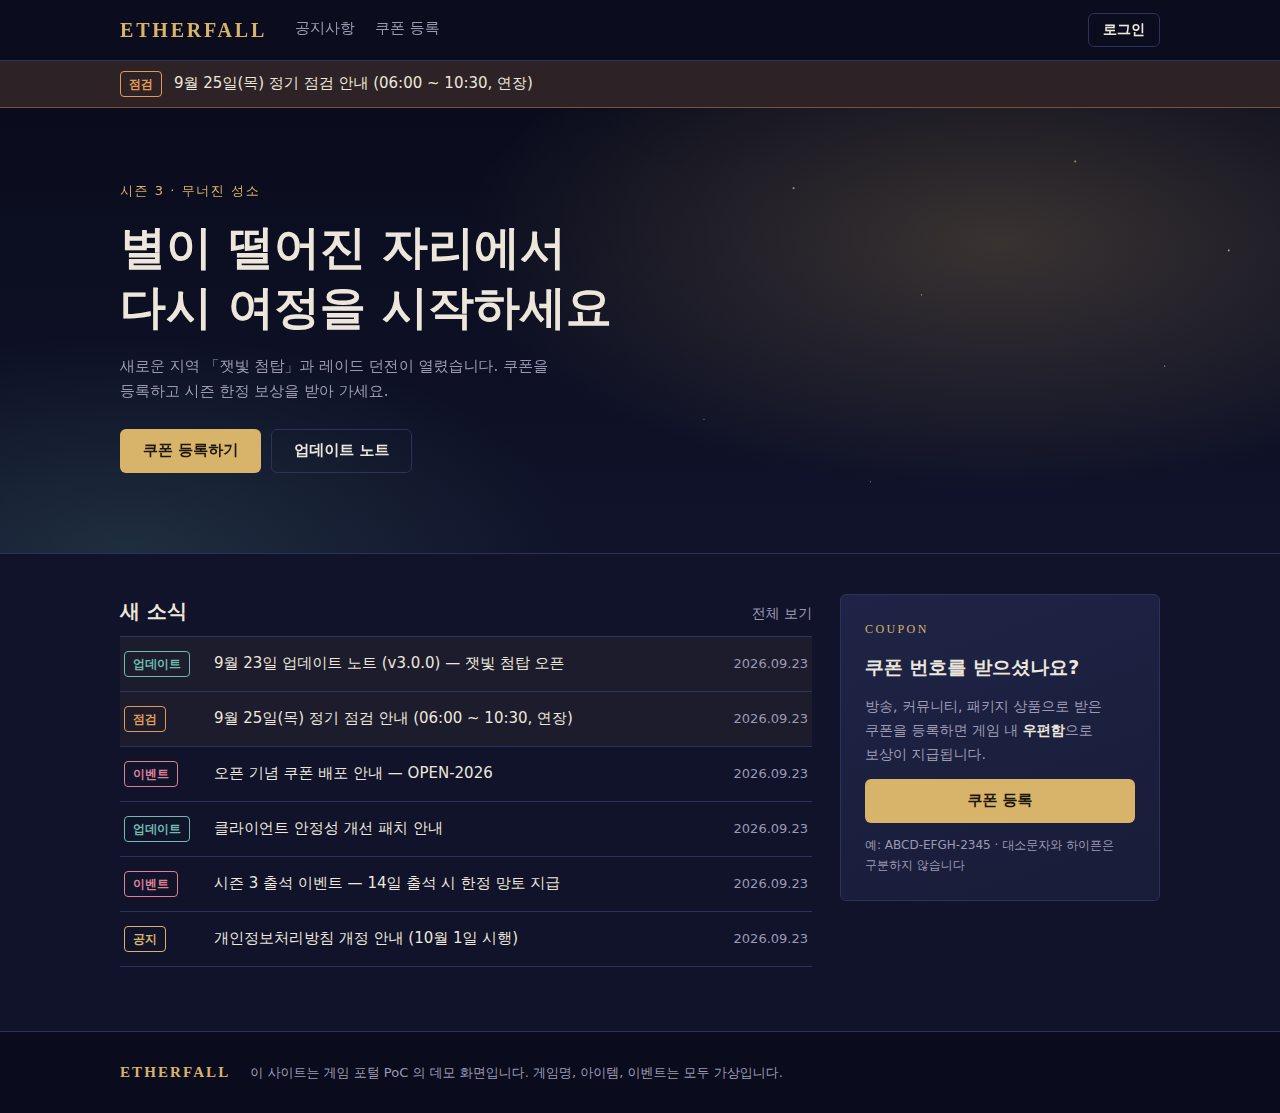
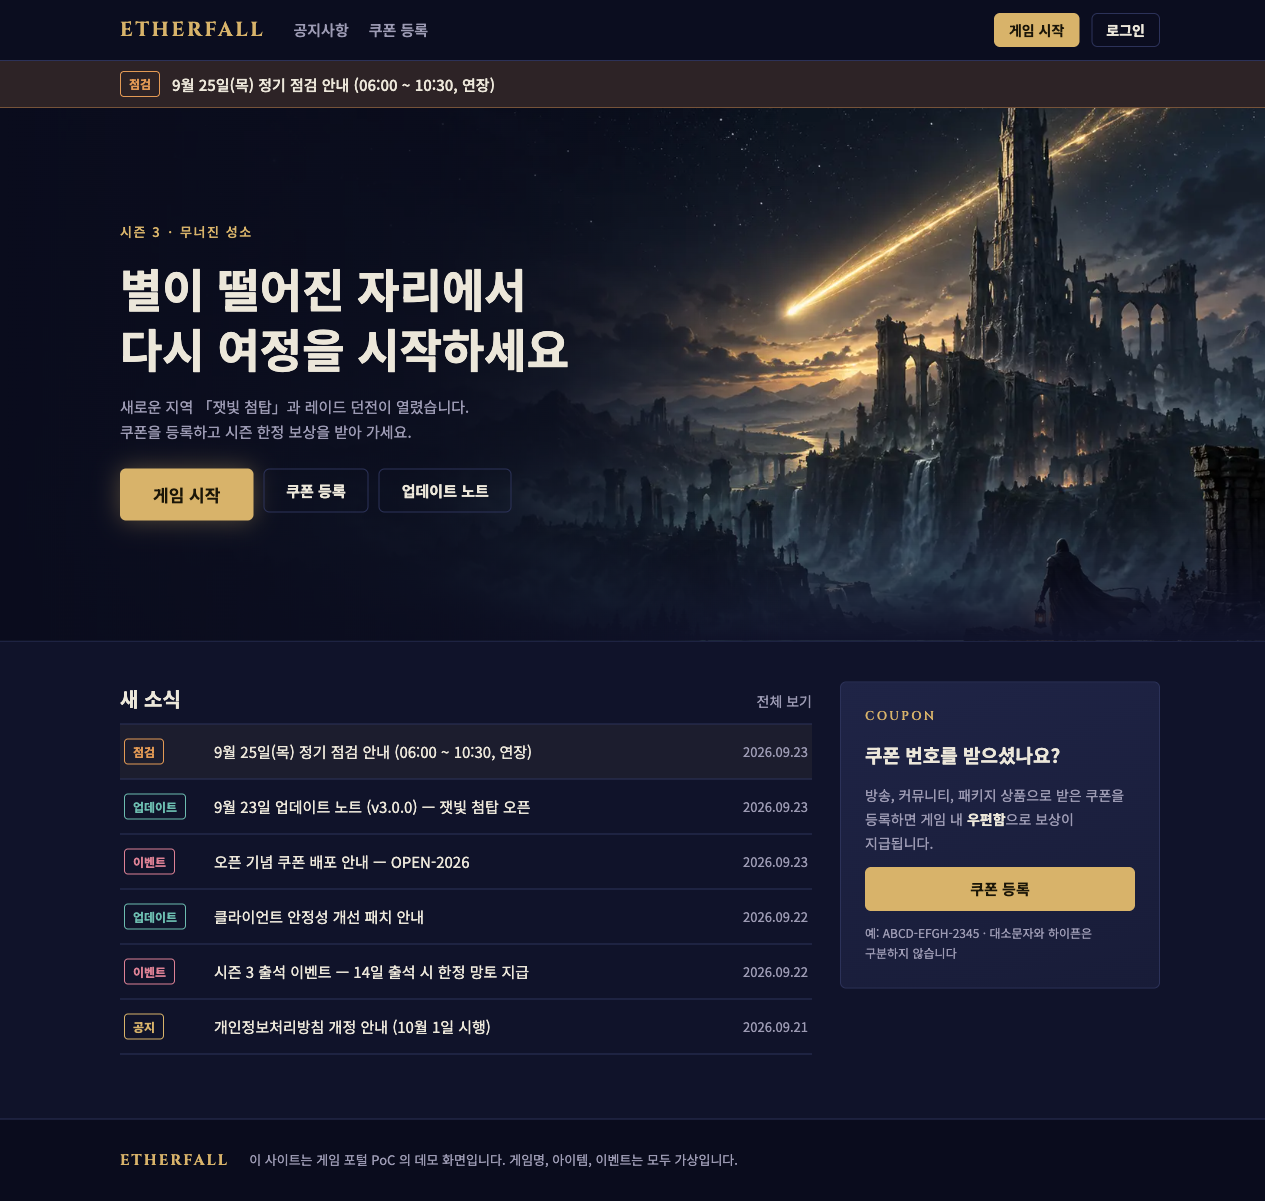
feat(web): 홈 첫 화면에 시즌 키 비주얼과 게임 시작 버튼을 둔다
게임 홈페이지 첫 화면의 주인공은 키 비주얼인데 지금은 그라데이션과 점 몇 개뿐이었고,
가장 많이 누르는 "게임 시작" 버튼이 없었다.

- 시즌 3 키 비주얼(무너진 성소와 별똥별, 절벽의 여행자)을 Codex로 그려 WebP로 넣었다.
  큰 화면 75KB, 좁은 화면 24KB. 글자는 그림의 어두운 왼쪽 하늘 위에 얹는다.
- 머리말과 히어로에 게임 시작 버튼을 두고 /play 로 잇는다. 로그인이 필요하고,
  런처 전용 주소에는 토큰을 싣지 않는다. 권장 사양 표를 함께 보인다.
- 좁은 화면에서 머리말 버튼이 줄바꿈되지 않게 하고, 점검 배너는 어절 단위로 줄을 바꾼다.
- README의 홈 스크린샷을 새로 찍었다.

Claude-Session: https://claude.ai/code/session_01527boubjgQL6V2358gsfFV

Changed region(s): [[0.0, 0.0, 1.0, 0.8859], [0.0, 0.1527, 0.4933, 0.8859], [0.0925, 0.947, 0.6166, 0.9775]]

diff --git a/src/GamePortal.Web/wwwroot/css/site.css b/src/GamePortal.Web/wwwroot/css/site.css
@@ -112,6 +112,10 @@ a:focus-visible, button:focus-visible, input:focus-visible {
     .gnb__inner { height: auto; flex-wrap: wrap; row-gap: 0; padding-top: 12px; }
     .gnb__nav { order: 3; width: 100%; gap: 24px; }
     .gnb__nav a { padding-block: 10px; }
+    .gnb__inner { column-gap: 12px; }
+    .logo { font-size: 17px; letter-spacing: 0.1em; }
+    .gnb__account { gap: 8px; }
+    .gnb__user { display: none; } /* 닉네임은 쿠폰 화면에도 보이므로 좁은 화면에서는 버튼 자리를 내준다 */
 }
 
 /* ---------- Buttons ---------- */
@@ -136,6 +140,7 @@ a:focus-visible, button:focus-visible, input:focus-visible {
 .btn--ghost { border-color: var(--line); color: var(--ink); background: transparent; }
 .btn--ghost:hover { border-color: var(--gold); color: var(--gold-strong); }
 .btn--sm { height: 34px; padding-inline: 14px; font-size: 14px; }
+.btn--lg { height: 52px; padding-inline: 32px; font-size: 17px; box-shadow: 0 0 24px color-mix(in srgb, var(--gold) 35%, transparent); }
 .btn--block { width: 100%; }
 .link-button {
     background: none;
@@ -159,7 +164,7 @@ a:focus-visible, button:focus-visible, input:focus-visible {
     align-items: center;
     gap: 12px;
 }
-.alert-bar a { text-decoration: none; font-weight: 500; }
+.alert-bar a { text-decoration: none; font-weight: 500; word-break: keep-all; text-wrap: balance; }
 .alert-bar a:hover { text-decoration: underline; }
 
 /* ---------- Hero ---------- */
@@ -177,7 +182,7 @@ a:focus-visible, button:focus-visible, input:focus-visible {
     z-index: 1;
     max-width: 1080px;
     margin: 0 auto;
-    padding: 72px var(--gutter) 80px;
+    padding: 112px var(--gutter) 120px;
     display: grid;
     gap: 16px;
     justify-items: start;
@@ -199,40 +204,32 @@ a:focus-visible, button:focus-visible, input:focus-visible {
 }
 .hero__lede { margin: 0; color: var(--muted); max-width: 46ch; }
 .hero__actions { display: flex; flex-wrap: wrap; gap: 10px; margin-top: 8px; }
-/* 별이 떨어지는 하늘 — 이미지 없이 CSS 로만 */
-.hero__sky {
-    position: absolute;
-    inset: 0;
-    background-image:
-        radial-gradient(1.5px 1.5px at 62% 18%, var(--ink), transparent),
-        radial-gradient(1px 1px at 72% 42%, var(--ink), transparent),
-        radial-gradient(1.5px 1.5px at 84% 12%, var(--gold-strong), transparent),
-        radial-gradient(1px 1px at 91% 58%, var(--ink), transparent),
-        radial-gradient(1px 1px at 55% 70%, var(--muted), transparent),
-        radial-gradient(1.5px 1.5px at 96% 32%, var(--ink), transparent),
-        radial-gradient(1px 1px at 68% 84%, var(--muted), transparent);
-    opacity: .8;
+/* 키 비주얼: 그림은 오른쪽에 무게가 있고 왼쪽 하늘이 어둡다. 왼쪽부터 바탕색을 덮어 글자 대비를 지킨다. */
+.hero__art { position: absolute; inset: 0; }
+.hero__art img {
+    width: 100%;
+    height: 100%;
+    object-fit: cover;
+    object-position: 70% 40%;
 }
-.hero__sky::after {
+.hero__art::after {
     content: "";
     position: absolute;
-    top: 14%;
-    right: 12%;
-    width: 180px;
-    height: 2px;
-    background: linear-gradient(90deg, transparent, var(--gold-strong));
-    transform: rotate(-28deg);
-    transform-origin: right center;
-    filter: drop-shadow(0 0 6px var(--gold));
-    animation: fall 7s ease-in-out infinite;
+    inset: 0;
+    background:
+        linear-gradient(90deg, var(--ground-deep) 0%, color-mix(in srgb, var(--ground-deep) 78%, transparent) 34%, transparent 62%),
+        linear-gradient(0deg, var(--ground) 0%, transparent 28%);
 }
-@keyframes fall {
-    0%, 70% { opacity: 0; translate: 0 0; }
-    75% { opacity: 1; }
-    100% { opacity: 0; translate: -160px 90px; }
-}
-@media (prefers-reduced-motion: reduce) {
-    .hero__sky::after { animation: none; opacity: .7; }
+@media (max-width: 720px) {
+    /* 좁은 화면: 그림 위쪽에 첨탑과 별똥별을 보이고, 글자는 아래쪽 어두운 면에 둔다 */
+    .hero__inner { padding-top: 240px; padding-bottom: 48px; }
+    .hero__art img { object-position: 78% 0%; }
+    .hero__art::after {
+        background: linear-gradient(180deg, transparent 0%, transparent 26%, color-mix(in srgb, var(--ground-deep) 72%, transparent) 46%, var(--ground-deep) 68%);
+    }
+    /* 게임 시작을 한 줄 전체로, 나머지 둘은 그 아래 나란히 */
+    .hero__actions { display: grid; grid-template-columns: 1fr 1fr; width: 100%; }
+    .hero__actions .btn--lg { grid-column: 1 / -1; }
 }
 
 /* ---------- Home grid ---------- */
@@ -469,3 +466,24 @@ a:focus-visible, button:focus-visible, input:focus-visible {
     gap: 8px 20px;
 }
 .footer p { margin: 0; color: var(--muted); font-size: 13px; }
+
+/* ---------- Play page ---------- */
+.play-page { max-width: 720px; display: grid; gap: 16px; }
+.play-page .page__lede { margin-bottom: 8px; }
+.play-card {
+    background: linear-gradient(160deg, var(--surface-2), var(--surface));
+    border: 1px solid var(--line);
+    border-radius: var(--radius);
+    padding: 24px;
+    display: grid;
+    gap: 12px;
+    justify-items: start;
+}
+.play-card h2 { margin: 0; font-size: 19px; }
+.play-card p { margin: 0; color: var(--muted); }
+.play-card__hint { font-size: 13px; }
+.section-heading { margin: 16px 0 12px; font-size: 19px; }
+.spec-table { width: 100%; border-collapse: collapse; font-size: 14px; }
+.spec-table th, .spec-table td { padding: 12px 10px; border-bottom: 1px solid var(--line); text-align: left; word-break: keep-all; }
+.spec-table thead th { color: var(--muted); font-weight: 500; }
+.spec-table tbody th { color: var(--muted); font-weight: 500; white-space: nowrap; }

diff --git a/tests/GamePortal.IntegrationTests/Scenarios/HomepageScenarioTests.cs b/tests/GamePortal.IntegrationTests/Scenarios/HomepageScenarioTests.cs
@@ -29,6 +29,52 @@ public partial class HomepageScenarioTests(PortalTestFixture fixture)
     }
 
     [Fact]
+    public async Task 홈_화면은_키_비주얼과_게임_시작_버튼을_보인다()
+    {
+        var html = await fixture.Front.CreateClient().GetStringAsync("/");
+
+        Assert.Contains("/images/keyart-season3.webp", html);
+        // 머리말과 히어로 두 곳 모두 게임 시작으로 이어진다
+        Assert.Equal(2, Regex.Matches(html, "href=\"/play\"[^>]*>게임 시작</a>").Count);
+    }
+
+    [Fact]
+    public async Task 키_비주얼_그림이_실제로_내려간다()
+    {
+        var client = fixture.Front.CreateClient();
+
+        foreach (var path in new[] { "/images/keyart-season3.webp", "/images/keyart-season3-960.webp" })
+        {
+            var response = await client.GetAsync(path);
+            Assert.Equal(HttpStatusCode.OK, response.StatusCode);
+            Assert.Equal("image/webp", response.Content.Headers.ContentType?.MediaType);
+        }
+    }
+
+    [Fact]
+    public async Task 로그인하지_않고_게임_시작을_누르면_로그인_후_게임_시작으로_돌아온다()
+    {
+        var client = fixture.Front.CreateClient(new WebApplicationFactoryClientOptions { AllowAutoRedirect = false });
+
+        var response = await client.GetAsync("/play");
+
+        Assert.Equal(HttpStatusCode.Redirect, response.StatusCode);
+        Assert.Equal("/account/login?ReturnUrl=%2Fplay", response.Headers.Location!.PathAndQuery);
+    }
+
+    [Fact]
+    public async Task 게임_시작_화면은_런처를_열되_주소에_토큰을_싣지_않는다()
+    {
+        var client = fixture.Front.CreateClient();
+        await LoginAsync(client, Interlocked.Increment(ref _accountSeed));
+
+        var html = await client.GetStringAsync("/play");
+
+        Assert.Contains("href=\"etherfall-launcher://start\"", html);
+        Assert.DoesNotContain("token", Regex.Match(html, "etherfall-launcher://[^\"]*").Value, StringComparison.OrdinalIgnoreCase);
+    }
+
+    [Fact]
     public async Task 공지_본문의_HTML_은_실행되지_않고_줄바꿈은_유지된다()
     {
         var id = await CreateNoticeAsync(new CreateNoticeRequest(

diff --git a/src/GamePortal.Web/Program.cs b/src/GamePortal.Web/Program.cs
@@ -24,6 +24,7 @@ builder.Services.Configure<WebEncoderOptions>(o => o.TextEncoderSettings = new T
 builder.Services.AddRazorPages(o =>
 {
     o.Conventions.AuthorizePage("/Coupon/Index");
+    o.Conventions.AuthorizePage("/Play"); // 게임 시작은 로그인한 계정으로 한다
 });
 builder.Services.AddHttpContextAccessor();
 builder.Services.AddPortalCookieAuth(builder.Environment);

diff --git a/README.ko.md b/README.ko.md
@@ -32,8 +32,8 @@
 
 | 메인 | 쿠폰 등록 |
 |---|---|
-| <img src="docs/images/web-home.png" alt="메인: 점검 배너, 히어로, 새 소식, 쿠폰 안내" width="480"> | <img src="docs/images/web-coupon-success.png" alt="쿠폰 등록 성공: 보상 목록과 사용 내역" width="480"> |
-| 고정된 점검 공지가 사이트 상단 배너로 노출됩니다. | 보상은 아이템 이름으로 보여 주고, 게임 우편함으로 비동기 지급됩니다. |
+| <img src="docs/images/web-home.png" alt="메인: 점검 배너, 시즌 키 비주얼과 게임 시작 버튼, 새 소식, 쿠폰 안내" width="480"> | <img src="docs/images/web-coupon-success.png" alt="쿠폰 등록 성공: 보상 목록과 사용 내역" width="480"> |
+| 시즌 키 비주얼 위에 게임 시작 버튼을 두고, 고정된 점검 공지는 상단 배너로 노출됩니다. | 보상은 아이템 이름으로 보여 주고, 게임 우편함으로 비동기 지급됩니다. |
 
 | 공지 게시판 | 공지 상세 | 에러 코드별 안내 | 모바일 |
 |---|---|---|---|
@@ -381,7 +381,7 @@ curl "localhost:5200/api/v1/coupon-redemptions?accountId=10001" -H "authorizatio
 | 테스트 | 개수 | 검증하는 것 |
 |---|---:|---|
 | .NET 단위 (`tests/GamePortal.UnitTests`) | 56 | 도메인 규칙과 경계값, 검증기, 캐시 폴백, 홈페이지 ↔ 서버 에러 코드 계약 |
-| .NET 통합 (`tests/GamePortal.IntegrationTests`) | 33 | Testcontainers로 띄운 실제 SQL Server에서 API와 Razor 홈페이지를 전 구간 실행 |
+| .NET 통합 (`tests/GamePortal.IntegrationTests`) | 37 | Testcontainers로 띄운 실제 SQL Server에서 API와 Razor 홈페이지를 전 구간 실행 |
 | 운영툴 단위 (`npm test`) | 13 | KST 변환, 에러 매핑, 역할 규칙, 감사 로그 표시 변환 |
 | 운영툴 E2E (`npm run e2e`) | 4 | 전체 스택을 띄운 상태에서 Playwright로 실행. 실제 Worker 전달까지 포함 |
 

diff --git a/README.md b/README.md
@@ -32,8 +32,8 @@ The fictional game is **ETHERFALL**. The UI is in Korean because the target serv
 
 | Home | Coupon redemption |
 |---|---|
-| <img src="docs/images/web-home.png" alt="Home: pinned maintenance banner, hero, latest news, coupon CTA" width="480"> | <img src="docs/images/web-coupon-success.png" alt="Coupon redeemed: rewards list and redemption history" width="480"> |
-| Pinned maintenance notices become a site-wide banner. | Rewards are shown by item name. Delivery happens asynchronously through the game mailbox. |
+| <img src="docs/images/web-home.png" alt="Home: pinned maintenance banner, season key art with a game start button, latest news, coupon CTA" width="480"> | <img src="docs/images/web-coupon-success.png" alt="Coupon redeemed: rewards list and redemption history" width="480"> |
+| A game start button sits on the season key art, and pinned maintenance notices become a site-wide banner. | Rewards are shown by item name. Delivery happens asynchronously through the game mailbox. |
 
 | Notice board | Notice detail | Error by code | Mobile |
 |---|---|---|---|
@@ -381,7 +381,7 @@ Debugging works across services. Start `All services` in **Debug**, set breakpoi
 | Suite | Count | What it proves |
 |---|---:|---|
 | .NET unit (`tests/GamePortal.UnitTests`) | 56 | Domain rules and boundaries, validators, cache fail-open, front-end ↔ server error-code contract |
-| .NET integration (`tests/GamePortal.IntegrationTests`) | 33 | Real SQL Server via Testcontainers. APIs **and** the Razor website run end to end in process |
+| .NET integration (`tests/GamePortal.IntegrationTests`) | 37 | Real SQL Server via Testcontainers. APIs **and** the Razor website run end to end in process |
 | Admin.Web unit (`npm test`) | 13 | KST conversion, error mapping, role rules, audit value formatting |
 | Admin.Web E2E (`npm run e2e`) | 4 | Playwright against the full running stack, including real Worker delivery |
 
